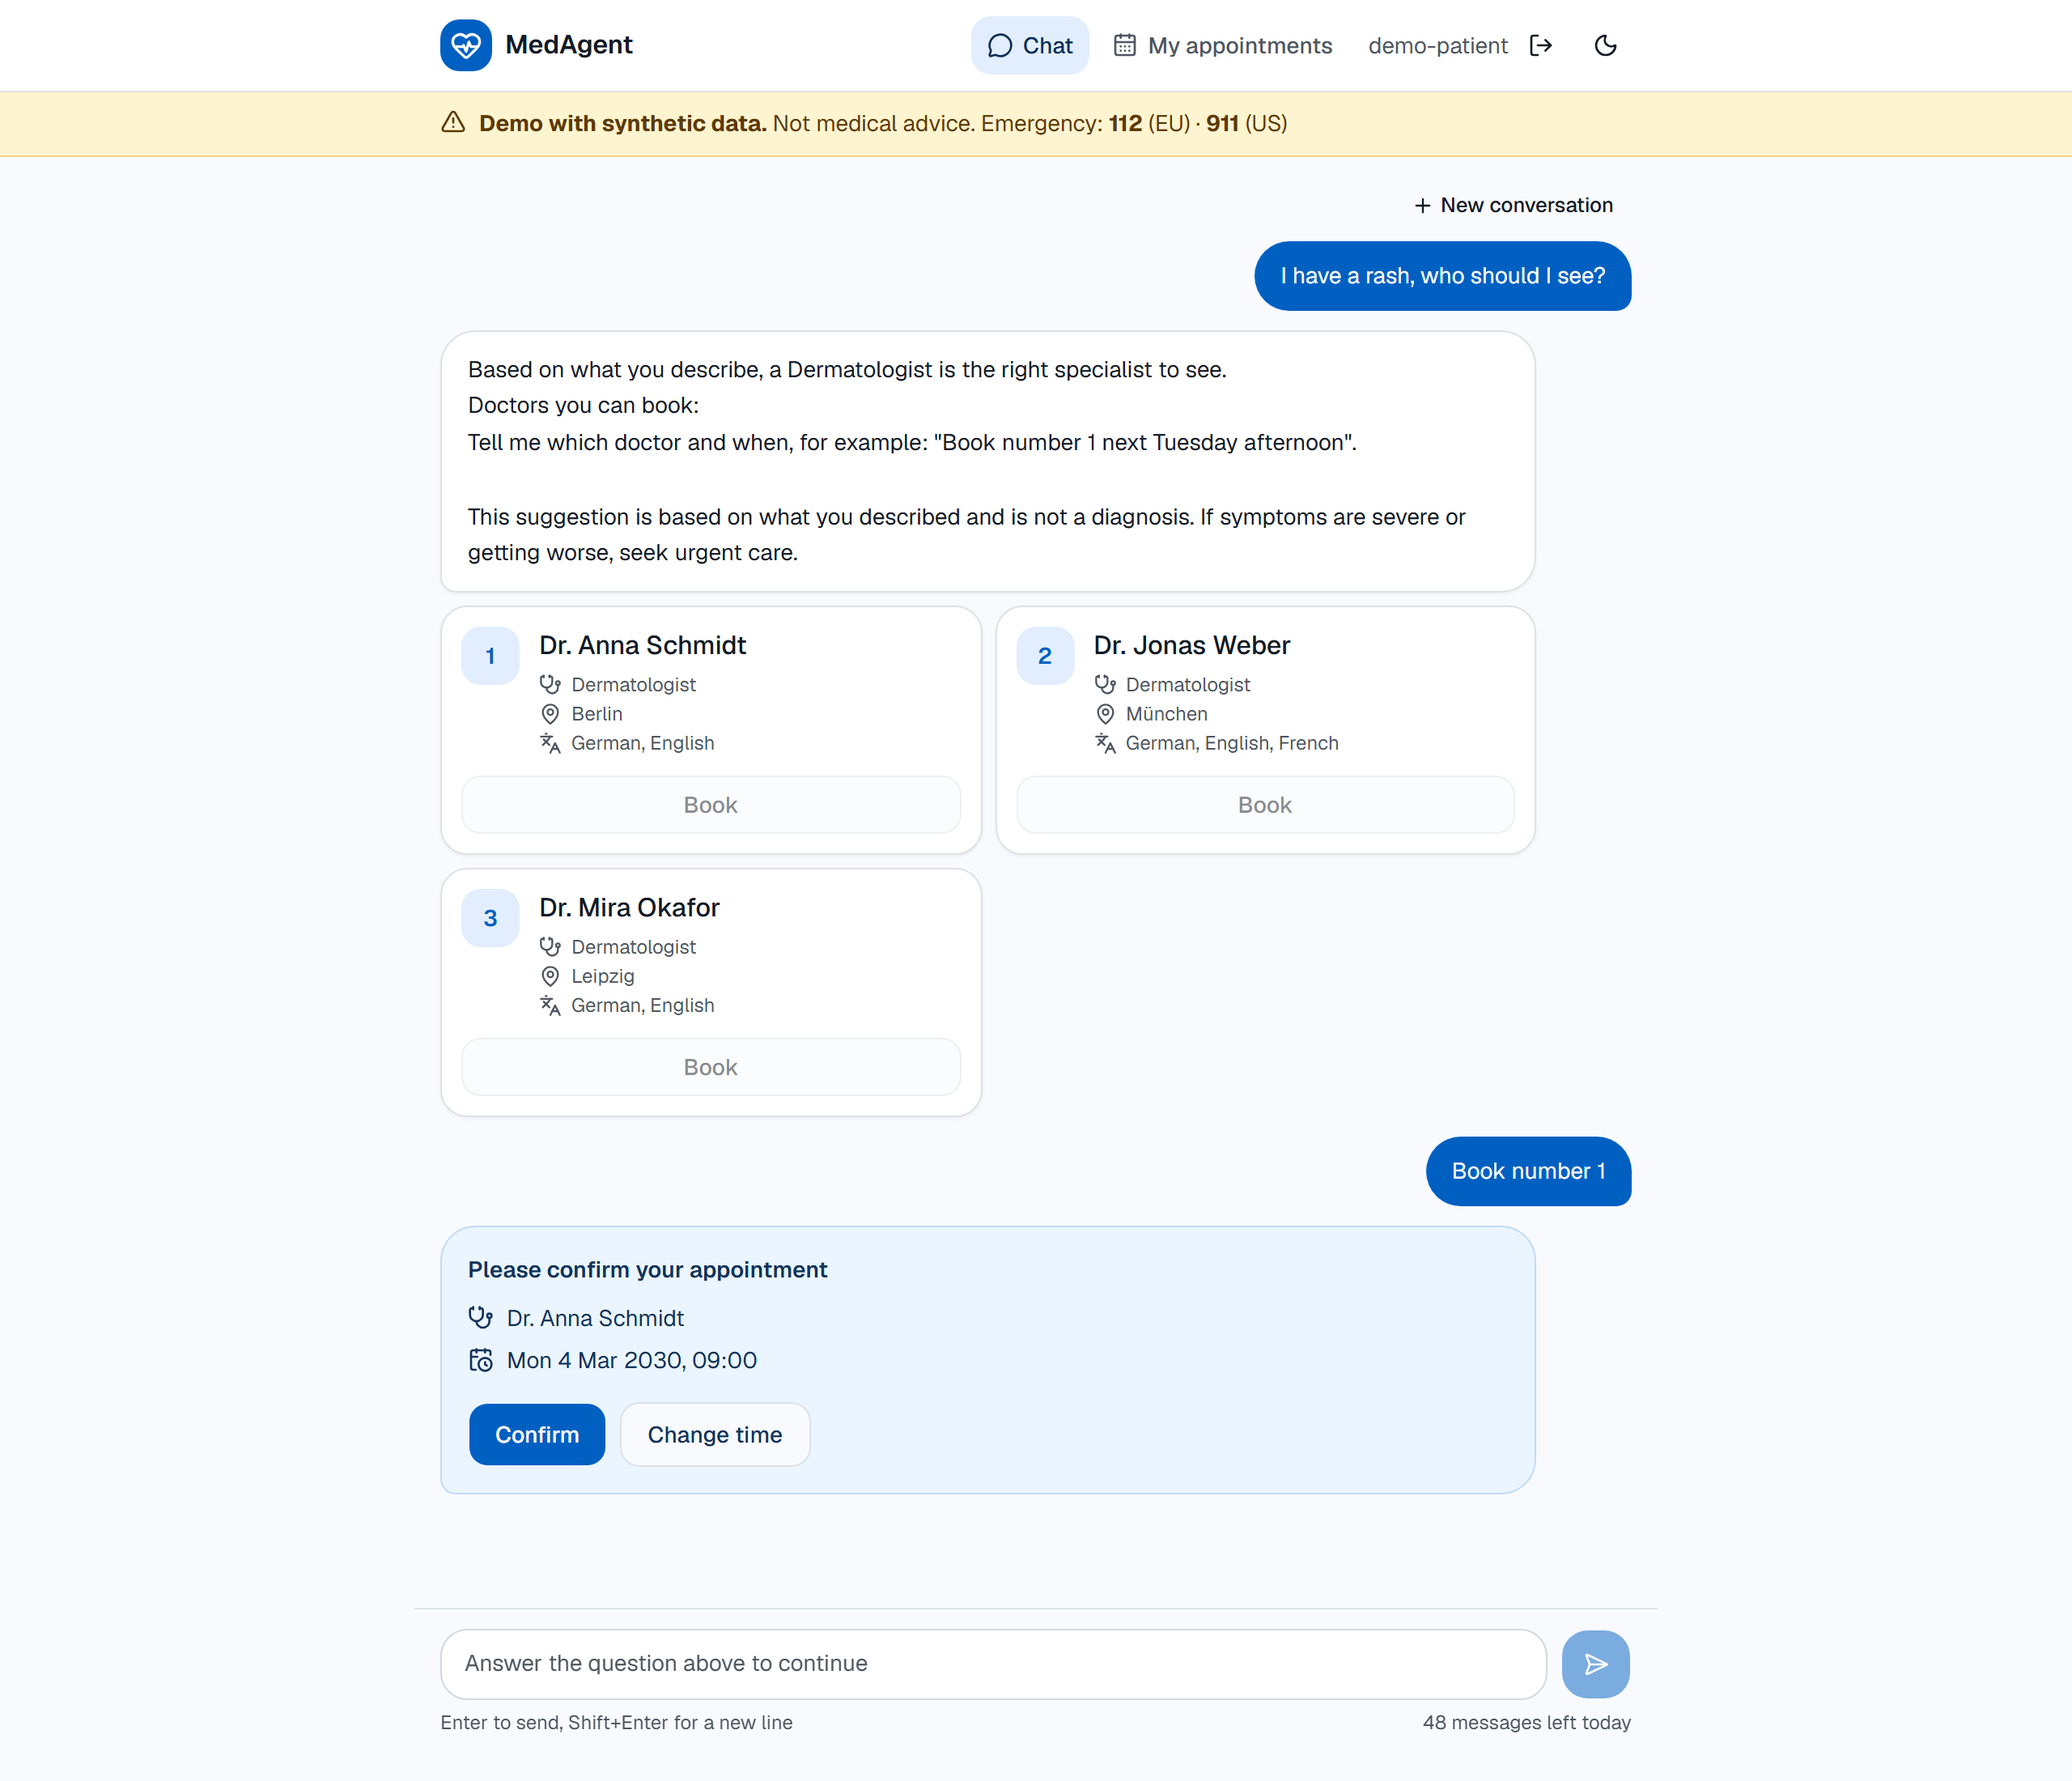
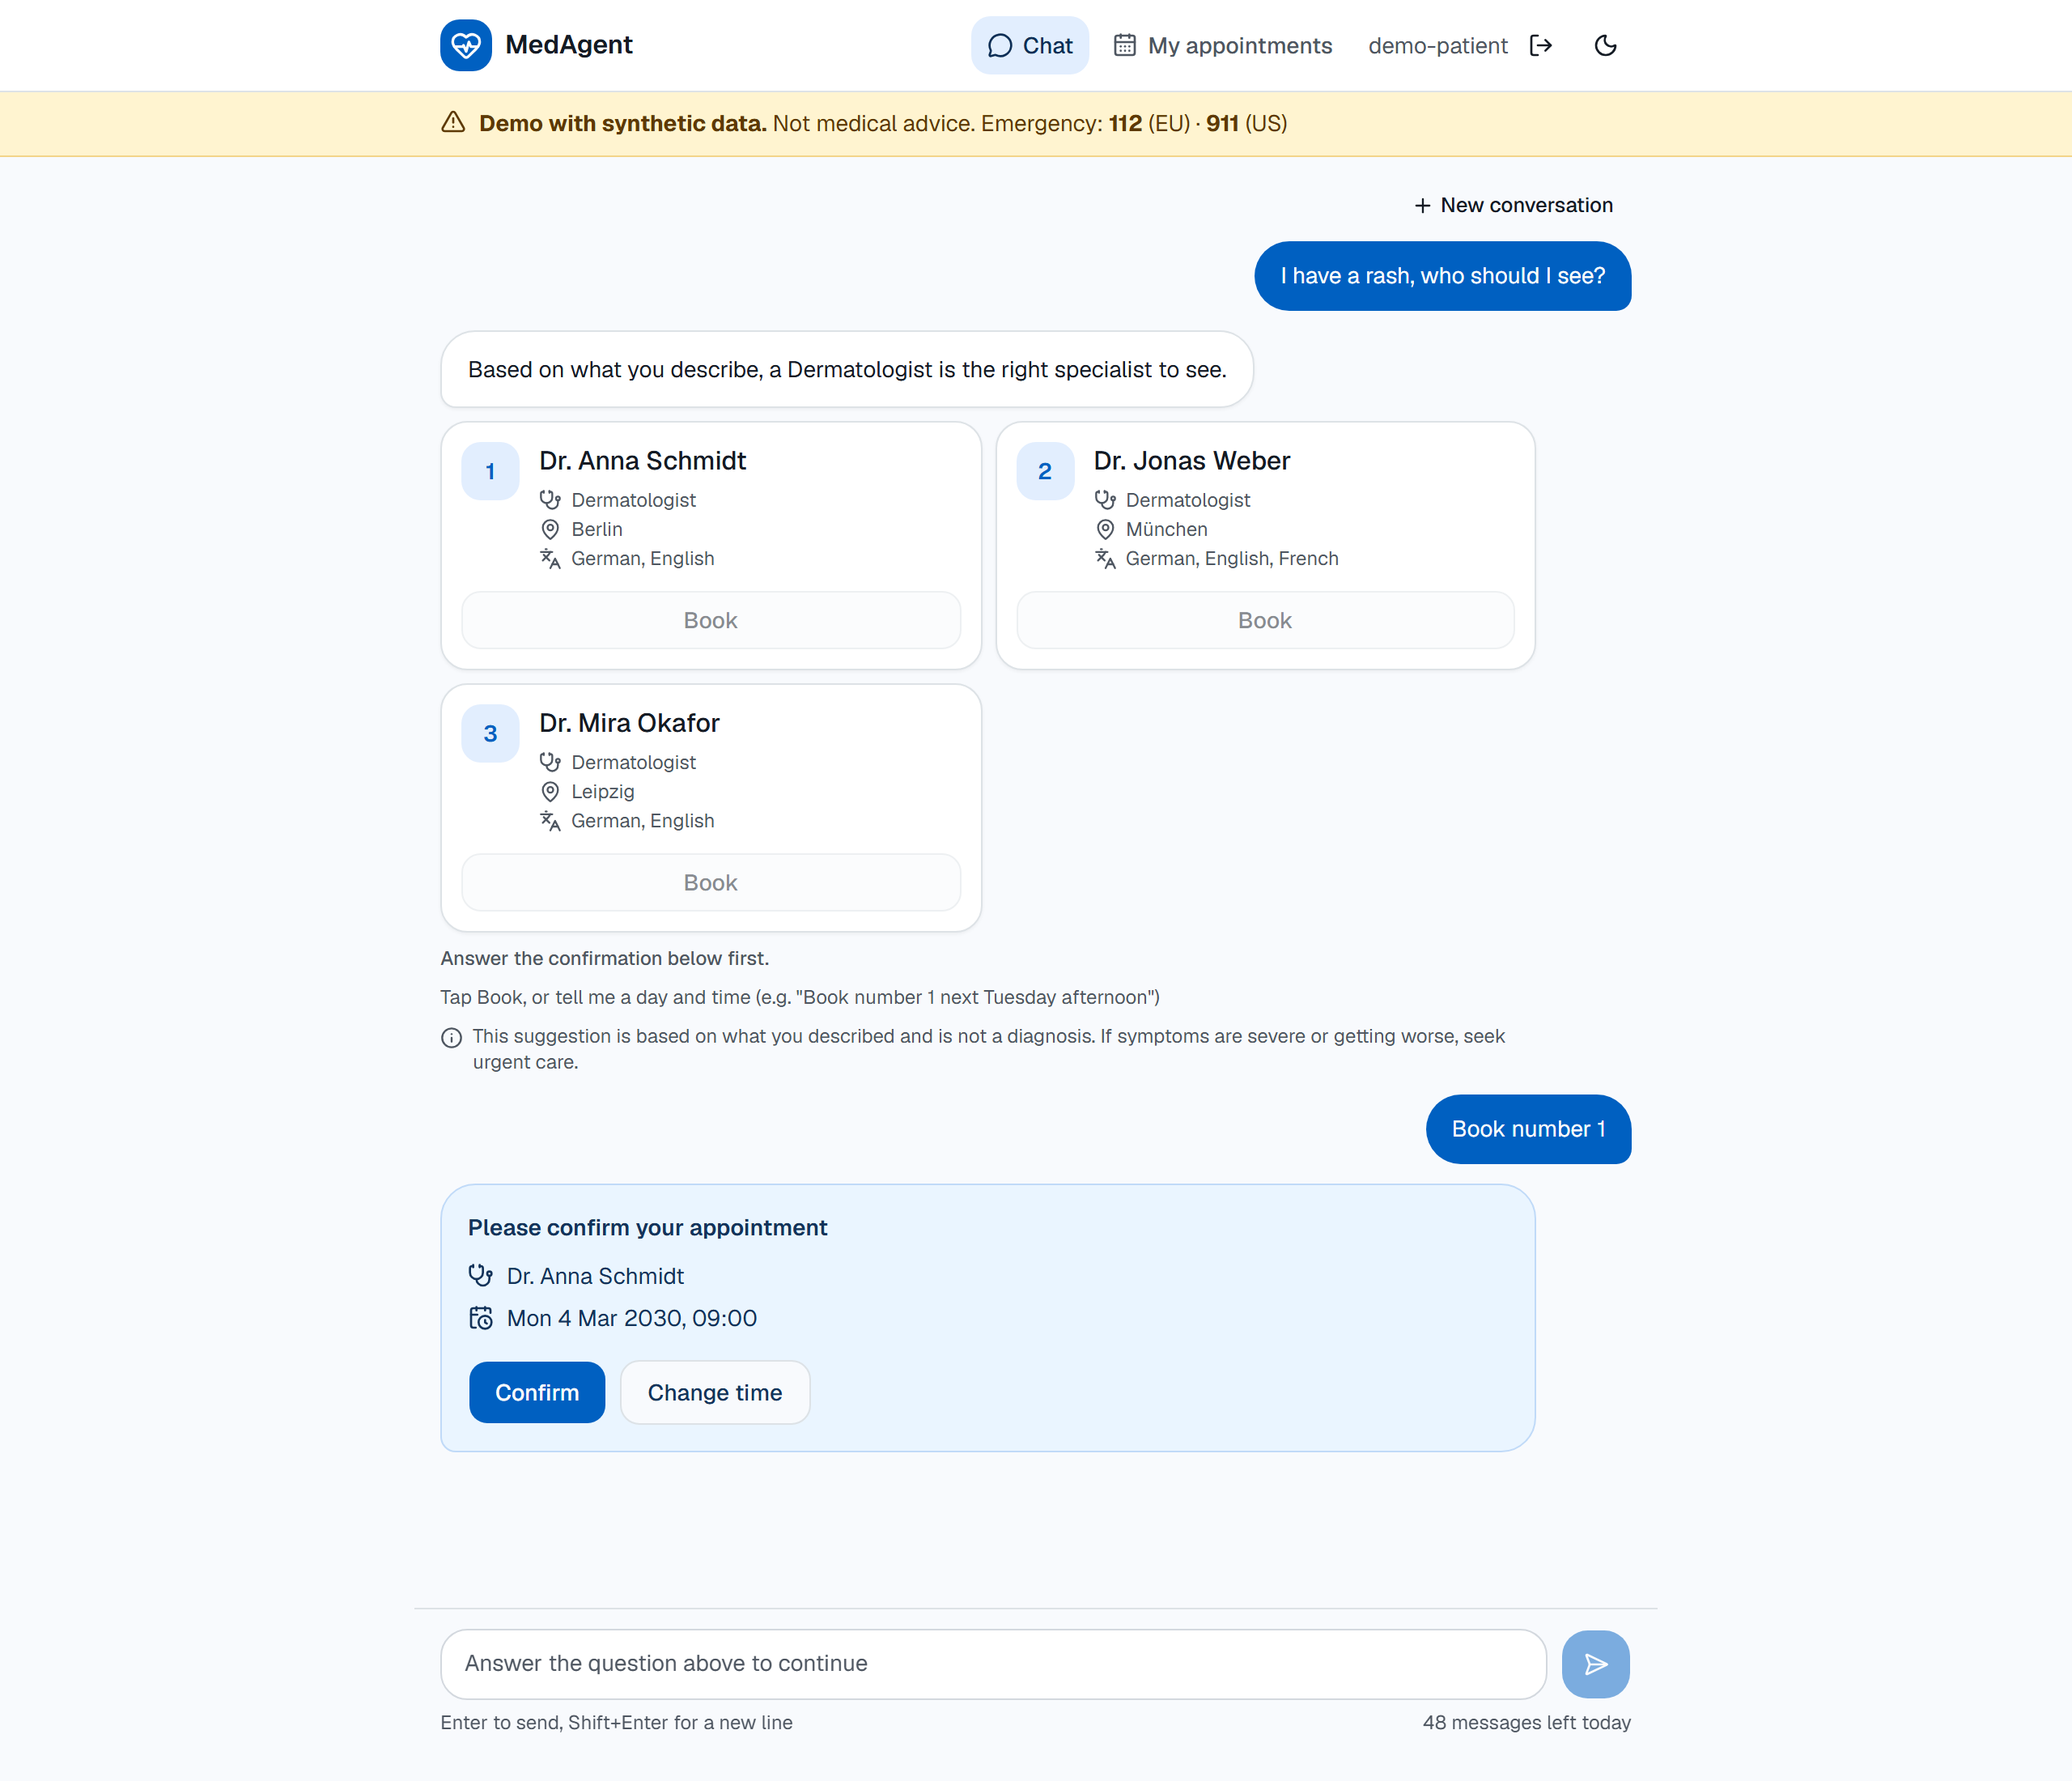
docs: round 2 in the changelog, ADR 0011 and the Phase 6 notes; new screenshots

diff --git a/docs/adr/0011-frontend.md b/docs/adr/0011-frontend.md
@@ -40,17 +40,27 @@ specialty, city, languages, in the order the assistant numbers them) and, after 
 conversation memory in the graph, so it is attached only to the turn that suggested it
 (`draft_kind == "doctors"`), which a test pins. A Book button sends "Book number N", the exact
 sentence a user would type, so the booking flow is unchanged and the confirmation step is still
-mandatory. Cards of older lists are disabled because "number N" refers to the newest list. The
-numbered text lines the cards replace are hidden in the bubble by exact match on the known names.
+mandatory. A Book tap on its own makes the assistant ask for a day, as typing "Book number 1"
+would. Cards of older lists are disabled because "number N" refers to the newest list, and disabled
+buttons say why ("Answer the confirmation below first."). The reply reads as intro, cards, a
+hint, then the not-a-diagnosis note: the list is found by exact match on the known doctor names
+(`lib/doctor-reply.ts`), the numbered lines, the generic label and the text hint are dropped, and
+if the list isn't recognised the text is shown unchanged. Likewise the confirmation card shows the
+explanation the assistant gives before asking (for example "Dr. X doesn't work on Sundays"),
+because the card shows the doctor and time as data and would otherwise offer a different day with
+no reason.
 
 ### 3c. Safety actions are one tap away
-The emergency and crisis texts are fixed on the server; the UI only makes them actionable: every
-known number in them is a `tel:` link (a fixed list, not a regex over arbitrary digits), the
-emergency card has a "Call 112" button, the crisis card has TelefonSeelsorge and 112 buttons and
-a Giftnotruf section. Poison centres have no single number in Germany; the UI lists five centres
-whose numbers were checked against published lists (Berlin, München, Bonn, Göttingen, Mainz) and
-links the official directory of the Federal Institute for Risk Assessment (BfR) for every other
-region, plus 112 for emergencies. The numbers live in `safety-cards.tsx` with that provenance.
+The emergency and crisis texts are fixed on the server; the UI only makes them actionable. On the
+emergency card every known number in the text is a `tel:` link (a fixed list, not a regex over
+arbitrary digits) and there is a "Call 112" button. The crisis card keeps its text plain and carries
+the numbers on buttons (TelefonSeelsorge, 112), so each number appears once as an action, plus a
+Giftnotruf (poison control) section. Germany has no single poison-control number, so that section
+shows only numbers confirmed on the official directory of the Federal Institute for Risk Assessment
+(BfR, "Giftinformationszentren in Deutschland", marked "Stand: 22.07.2026", read on 2026-11-01):
+Berlin 030 19240 and München 089 19240. Every other region is sent to the directory, and 112 is the
+answer for an emergency. Numbers seen only on third-party lists were deliberately left out. The
+source and date are recorded next to the numbers in `safety-cards.tsx`.
 
 ### 4. Token storage: memory plus `sessionStorage`, not an httpOnly cookie
 A cookie is the safer place against XSS, but it would need cookie auth on the API, CSRF

diff --git a/docs/learning/phase6.md b/docs/learning/phase6.md
@@ -60,10 +60,18 @@ suggested them (the graph remembers them, but a later turn must not re-send them
 are disabled because "number N" always means the newest list.
 
 ### What did you do for the safety cards?
-Made them actionable without changing what the server says: `tel:` links on every known number, a
-"Call 112" button on the emergency card, and TelefonSeelsorge, 112 and a Giftnotruf section on the
-crisis card. Germany has no single poison-control number, so I list only the regional numbers I could
-verify and link the official BfR directory for the rest, rather than guess.
+Made them actionable without changing what the server says: `tel:` links on the emergency card and a
+"Call 112" button; on the crisis card plain text, call buttons for TelefonSeelsorge and 112, and a
+Giftnotruf section (each number appears once as an action). Germany has no single poison-control
+number, so I show only the two I read on the official BfR directory (Berlin, München), link that
+directory for every other region, and left out numbers I'd only seen on third-party lists. The source
+and the date I checked are in the code next to the numbers.
+
+### What did the real-stack check find that the mock didn't?
+That replacing text with a card can drop information: the confirmation question can start with a
+reason ("Dr. X doesn't work on Sundays"), and a card showing only doctor and time would have offered a
+different day with no explanation. The card now shows that reason. A mock only returns what I thought
+to put in it, so I run the real stack once before every PR.
 
 ### How do you test a streaming UI for free?
 A tiny Node server speaks the real contract (CORS, SSE with delays, error envelopes, per-user

diff --git a/CHANGELOG.md b/CHANGELOG.md
@@ -22,6 +22,11 @@ Format: [Keep a Changelog](https://keepachangelog.com/en/1.1.0/), versions follo
 - Safety cards: every known phone number is a `tel:` link; "Call 112" button on the emergency card;
   TelefonSeelsorge, 112 and a Giftnotruf (poison control) section with regional numbers and the
   official BfR list on the crisis card.
+- Doctor suggestions read as intro, cards, hint, then the not-a-diagnosis note; disabled Book buttons
+  explain themselves; the confirmation card shows the assistant's reason when it offers another day.
+- Crisis card: numbers on call buttons instead of repeated links in the text. Poison control lists
+  only numbers confirmed on the official BfR directory (Berlin, München; "Stand 22.07.2026", checked
+  2026-11-01) and links that directory for every other region.
 - The booked card is structured like the confirmation card (doctor, time, confirmation number) with
   "Add to calendar" below; a shorter one-line disclaimer strip; a fourth example prompt.
 - ADR 0011, `docs/learning/phase6.md`.
